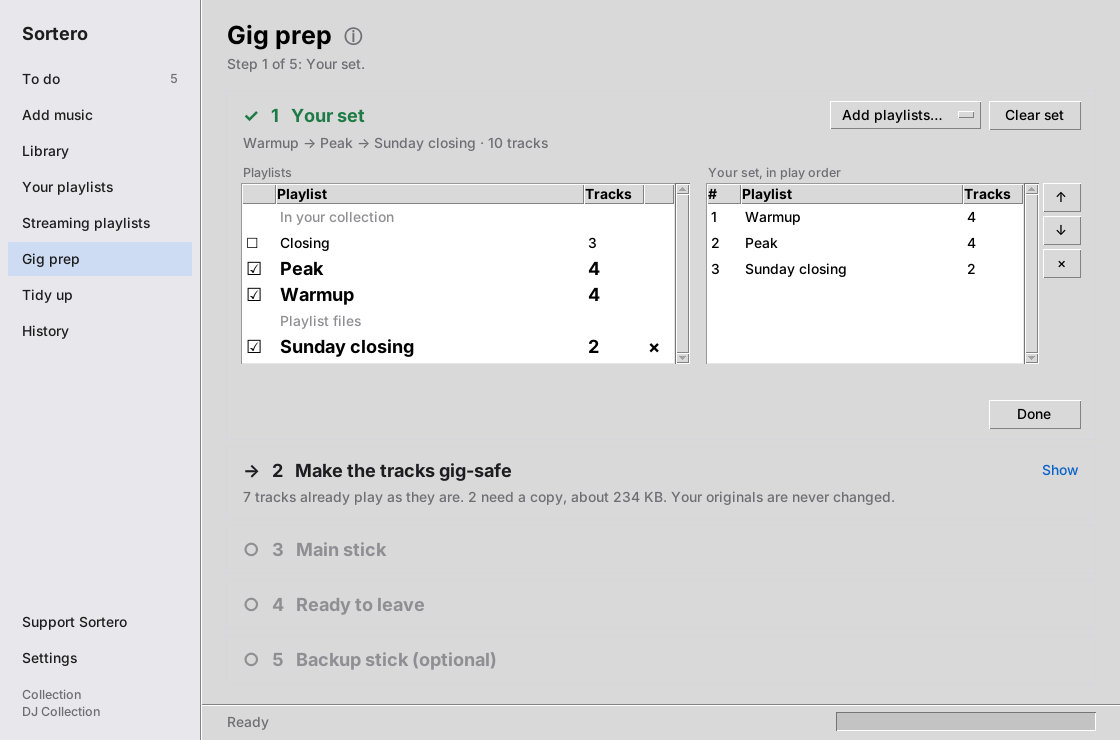
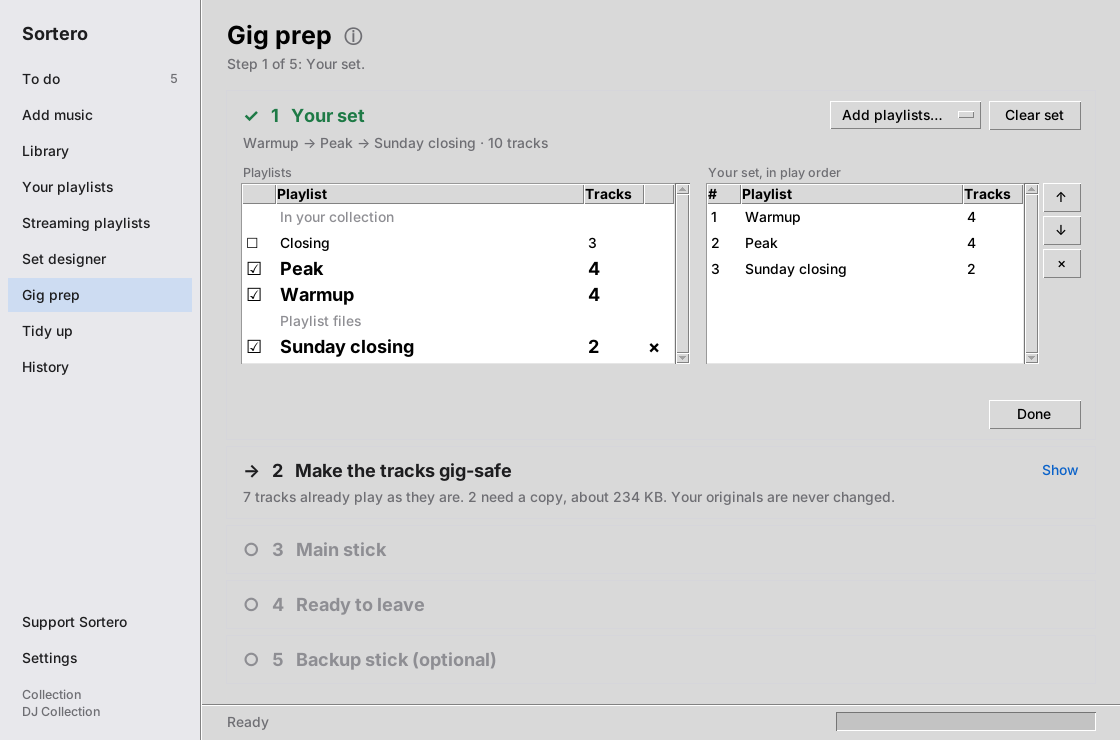
Screenshots: make the main stick the way Gig prep does now
Since the Engine DJ library work, the main stick needs a real Engine
database (Engine Library/Database2/m.db), not just a folder of tracks,
and the step defaults to "Sortero writes it". The script's Gig prep run
still packed a bare Engine Library/Music folder, so it stopped at step 3
("there's no rekordbox or Engine DJ library on it yet") instead of
GIG READY.

The chain now presses write_main, the "Sortero writes it" path: it
writes the set with its rekordbox and Engine DJ libraries and checks the
stick, then the backup is written and checked as before. Its confirm
(askokcancel) is answered yes, and any warning or error is printed
rather than left waiting for a click under Xvfb.

Claude-Session: https://claude.ai/code/session_01VyeVvp6kR5CMZRF6gjbzfw

Changed region(s): [[0.0, 0.3108, 0.1875, 0.5284]]

diff --git a/tools/screenshots.py b/tools/screenshots.py
@@ -10,8 +10,9 @@ folder. Artists and titles are made up.
 
 The sticks Gig prep checks are plain folders, so there's no real file system
 to read; the script reports them as FAT32 on one MBR partition, which is what
-a stick Sortero formatted would be. The main stick gets an Engine Library
-folder holding the set, as Engine DJ's export would leave it, so it passes.
+a stick Sortero formatted would be. The main stick is made the way Gig prep
+makes it by default ("Sortero writes it"): the set copied over with its
+rekordbox and Engine DJ libraries, then checked.
 """
 import base64, json, os, shutil, subprocess, sys, tempfile, zlib
 
@@ -184,7 +185,13 @@ def main():
 
     from tkinter import messagebox, filedialog
     messagebox.askyesno = lambda *a, **k: True
+    messagebox.askokcancel = lambda *a, **k: True
     messagebox.showinfo = lambda *a, **k: None
+
+    def said(kind):
+        # A warning or error would wait for a click that never comes: say it here
+        return lambda title, message, **k: print(f"{kind}: {message}", file=sys.stderr)
+    messagebox.showwarning, messagebox.showerror = said("warning"), said("error")
     filedialog.askdirectory = lambda **k: BACKUP if "backup" in k.get("title", "") else STICK
     from sortero.gig import disks, profiles
     disks.volume = lambda mount: disks.Volume(mount, profiles.FAT32, disks.MBR, 1)
@@ -290,17 +297,11 @@ def main():
     def gig():
         app.show("gig")         # opens on step 2, which checks the tracks by itself
         g = app.screens["gig"]
-
-        def pack_main_stick():
-            # what Engine DJ's Export to Drive leaves: its library, holding the set
-            music = os.path.join(STICK, "Engine Library", "Music")
-            os.makedirs(music, exist_ok=True)
-            for it in g.state.items:
-                shutil.copy(it.playable, music)
         chain = [lambda: g.open("set"),
                  lambda: shot("gig-prep-set"),
                  g.cards["set"].button.invoke,          # Done: back to the tracks
-                 g.make_copies, g.make_xml, pack_main_stick, g.check_main,
+                 g.make_copies,
+                 g.write_main,          # "Sortero writes it": the set, its libraries, a check
                  g.write_backup]                        # writes, then checks it
 
         def next_action():
